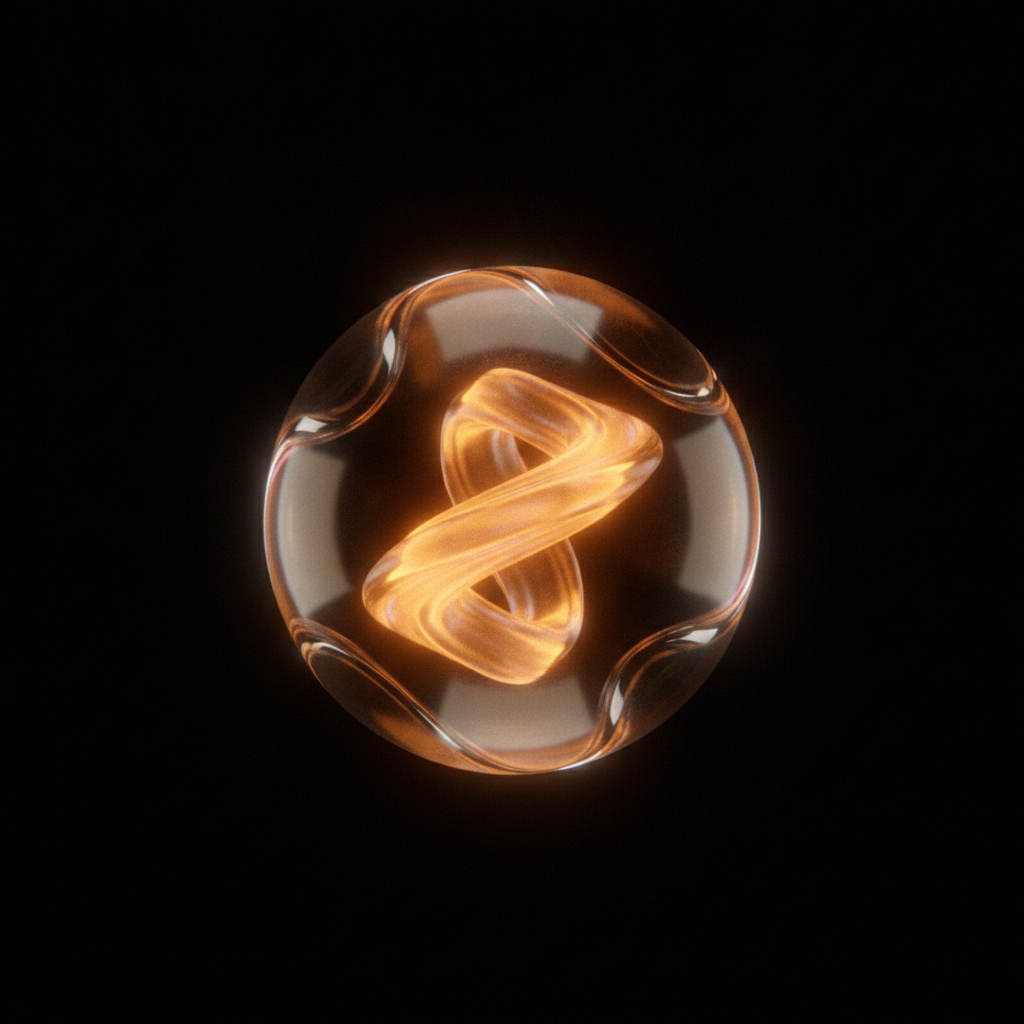
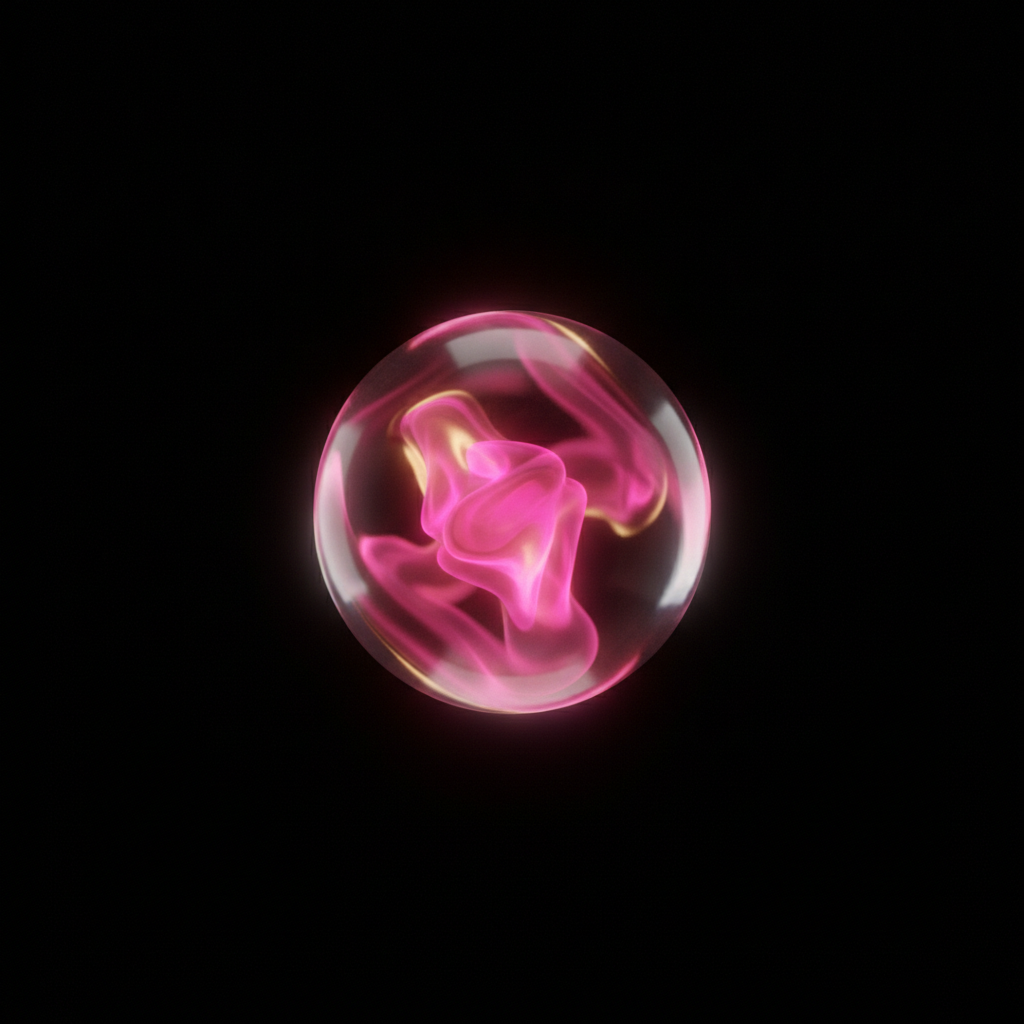
Strengths: SE -> pink (silhouette contrast vs amber Architecting) + footer buffer
1) Silhouette color split: both strength families were amber, so in the frosted
   (blurred) state you couldn't tell Architecting from SE apart. Regenerated the SE
   objects in vivid PINK/magenta (#E62E61) — same liquid-glass shapes (orb/ribbon/knot),
   pink palette via a per-job PINK_STYLE override in gen-strengths.mjs. Now Architecting
   reads as an amber/gold glow and SE as a pink glow even through the frost (verified:
   ARCH frosted blob R>G>B amber, SE R-G>15 & B>G pink).

2) Footer buffer (sphere section butted straight into the footer — felt abrupt): designed
   via a 3-approach harness. Added a generous void (.mv-frames margin-bottom clamp(120px,
   18vh,240px)), softened the footer's hard border-top (.14 -> .06), raised footer top
   padding, and a whisper hero-echo atmosphere (.mv-foot::before faint amber->pink radial,
   ~.03 alpha, rising through the buffer). Sphere's 100svh unchanged (must not resize the
   globe). Now the immersive sphere eases into black breathing room, then the footer settles.

Verified real Chromium: SE pink distinct from amber in silhouette, footer transition
natural (void + soft border), 0 errors.

Changed region(s): [[0.2188, 0.2188, 0.7812, 0.7812]]

diff --git a/monopo-vn-study.html b/monopo-vn-study.html
@@ -612,7 +612,7 @@ body{cursor:none;background:#000}
 
 /* ===== section: frames (robust rotated tiles) ===== */
 .mv-frames{position:relative;background:#000;color:#f5f5f4;overflow:hidden;
-  height:100svh;margin-top:clamp(60px,12vh,180px);
+  height:100svh;margin-top:clamp(60px,12vh,180px);margin-bottom:clamp(120px,18vh,240px);
   font-family:"Inter Tight",Helvetica,Arial,sans-serif}
 .cv-stage{position:absolute;inset:0;z-index:2;display:block}
 .cv-stage canvas{position:absolute;inset:0;display:block}
@@ -1104,8 +1104,10 @@ body.ready .mv-contact-footer {
 .mv-contact{display:none}   /* "Keep in touch" hidden — replaced by the real footer below */
 .mv-foot{position:relative;z-index:2;background:#000;color:#f5f5f4;
   font-family:"Inter Tight","Noto Sans KR",Helvetica,Arial,sans-serif}
-.mv-foot-cols{padding:clamp(48px,8vh,90px) var(--pad-x) clamp(40px,6vh,70px);
-  display:grid;grid-template-columns:1.2fr 1fr 1fr 1fr;gap:36px;border-top:1px solid rgba(255,255,255,.14)}
+.mv-foot-cols{position:relative;z-index:1;padding:clamp(56px,9vh,110px) var(--pad-x) clamp(40px,6vh,70px);
+  display:grid;grid-template-columns:1.2fr 1fr 1fr 1fr;gap:36px;border-top:1px solid rgba(255,255,255,.06)}
+.mv-foot::before{content:'';position:absolute;left:0;right:0;top:calc(-1 * clamp(70px,11vh,140px));height:clamp(160px,26vh,320px);z-index:0;pointer-events:none;
+  background:radial-gradient(120% 100% at 50% 0%,rgba(255,150,55,.032),rgba(230,70,120,.020) 46%,transparent 72%)}
 .mv-foot-logo{height:22px;width:auto;object-fit:contain;display:block;filter:brightness(0) invert(1);opacity:.92}
 .mv-foot-col h4{font-weight:600;font-size:12px;letter-spacing:.04em;color:rgba(245,245,245,.5);margin:0 0 16px}
 .mv-foot-col a{display:block;font-size:15px;color:#f5f5f4;text-decoration:none;padding:6px 0;width:fit-content;
